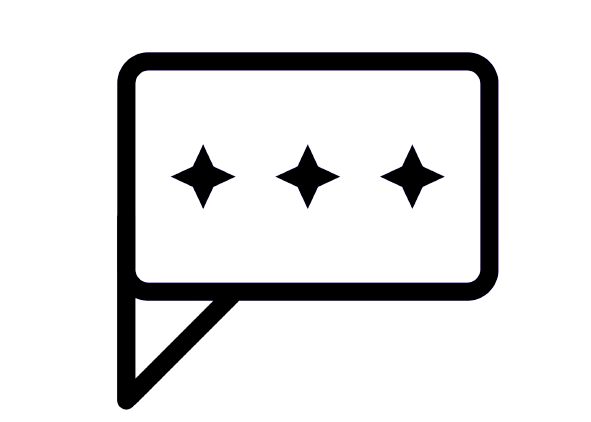
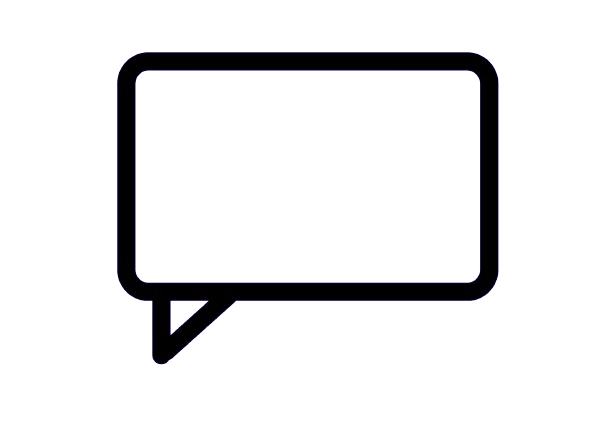
AboutSite Component

diff --git a/port/src/components/AboutSite.js b/port/src/components/AboutSite.js
@@ -1,0 +1,49 @@
+import React from "react";
+import Chat from "./Chat";
+import '../styles/AboutSite.css'
+
+class AboutSite extends React.Component{
+  constructor(props){
+    super(props)
+    this.state = {}
+  }
+
+  componentDidMount(){
+    window.addEventListener('scroll', this.handleScroll)
+  }
+
+  handleScroll = () =>{
+    if (window.scrollY > 200)
+      this.setState({ isVisible: true });
+    else
+      this.setState({ isVisible: false });
+  }
+
+
+  container = () =>{
+    return(
+      <div className="aboutSite-container">
+        <h2 className="aboutSite-title">This Site Was Deployed on AWS</h2>
+        <Chat/>
+        <div className="aboutSite-linkContainer">
+          <p className="">
+            {"Learn how to deploy a website: "}
+            <a ctarget="_blank" rel="noreferrer" href="https://aws.amazon.com/pm/ec2">
+              here
+            </a>
+          </p>
+        </div>
+      </div>
+    )
+  }
+
+  render(){
+    const { isVisible } = this.state;
+    return(
+    <div className={`scroll-text ${isVisible ? 'visible' : ''} aboutSite-wrapper`}>
+      <this.container/>
+    </div>)
+  }
+}
+
+export default AboutSite;

diff --git a/port/src/components/Home.js b/port/src/components/Home.js
@@ -4,8 +4,9 @@ import AboutMe from './AboutMe';
 import Footer from './Footer';
 import TechStack from './TechStack';
 import Projects from './Projects';
-import '../styles/Home.css';
+import AboutSite from './AboutSite';
 import Contact from './Contact';
+import '../styles/Home.css';
 
 class Home extends React.Component{
   constructor(props){
@@ -34,6 +35,7 @@ class Home extends React.Component{
       <div className='container'>
         <HeaderBar scrollAboutToMe={this.scrollToAboutMe} scrollToProjects={this.scrollToProjects}/>
         <AboutMe aboutMeRef={this.aboutMeRef}/>
+        <AboutSite/>
         <TechStack/>
         <Projects props={this.props} projectsRef={this.projectsRef}/>
         <Contact/>

diff --git a/port/src/index.css b/port/src/index.css
@@ -1,4 +1,6 @@
 @import url('https://fonts.googleapis.com/css2?family=Cinzel&family=DM+Sans:opsz,wght@9..40,500&family=Outfit:wght@600&display=swap');
+@import url('https://fonts.googleapis.com/css2?family=Ubuntu:ital,wght@0,300;0,400;0,500;0,700;1,300;1,400;1,500;1,700&display=swap');
+@import url('https://fonts.googleapis.com/css2?family=Oxygen:wght@300;400;700&family=Ubuntu:ital,wght@0,300;0,400;0,500;0,700;1,300;1,400;1,500;1,700&display=swap');
 
 /* src/styles.css */
 @import 'tailwindcss/base';
@@ -8,7 +10,7 @@
 
 
 *{
-  font-family: 'DM Sans', sans-serif;
+  font-family: 'Oxygen', 'Ubuntu', 'DM Sans', sans-serif;
   /*font-family: 'Cinzel', sans-serif;*/
 }
 

diff --git a/port/src/components/Chat.js b/port/src/components/Chat.js
@@ -1,0 +1,28 @@
+import React from "react";
+import spinner from '../assets/spinnerSelf.png';
+import '../styles/chat.css';
+
+class Chat extends React.Component{
+  constructor(props){
+    super(props);
+    this.state = {}
+  }
+
+  container = () =>{
+    return(
+    <div className="chat-container">
+      <img className="chat-img" src={spinner} alt=""/>
+      <img className="chat-img" src={spinner} alt=""/>
+      <img className="chat-img" src={spinner} alt=""/>
+    </div>)
+  }
+
+  render(){
+    return(
+    <div className="chat-wrapper">
+      <this.container/>
+    </div>)
+  }
+}
+
+export default Chat;

diff --git a/port/src/styles/AboutSite.css b/port/src/styles/AboutSite.css
@@ -1,0 +1,23 @@
+.aboutSite-wrapper{
+ display: flex;
+ align-items: center;
+ justify-content: center;
+ background-color: blueviolet;
+ margin-inline: 20%;
+ border-radius: 1rem;
+ padding: 1.3vw;
+ text-align: center;
+}
+
+.aboutSite-container{
+  display: flex;
+  flex-direction: column;
+  align-content: center;
+  justify-content: center;
+  align-items: center;
+}
+
+.aboutSite-title{
+  font-size: 2rem;
+  color: black;
+}

diff --git a/port/public/index.html b/port/public/index.html
@@ -25,7 +25,7 @@
       work correctly both with client-side routing and a non-root public URL.
       Learn how to configure a non-root public URL by running `npm run build`.
     -->
-    <title>React App</title>
+    <title>Personal Portfolio</title>
   </head>
   <body>
     <noscript>You need to enable JavaScript to run this app.</noscript>

diff --git a/port/src/styles/chat.css b/port/src/styles/chat.css
@@ -1,0 +1,16 @@
+.chat-wrapper{
+  width: 40%;
+  height: 40%;
+}
+
+.chat-container{
+  display: flex;
+  justify-content: center;
+  align-items: center;
+  flex-direction: row;
+}
+
+.chat-img{
+  width: 50%;
+  height: 50%;
+}
